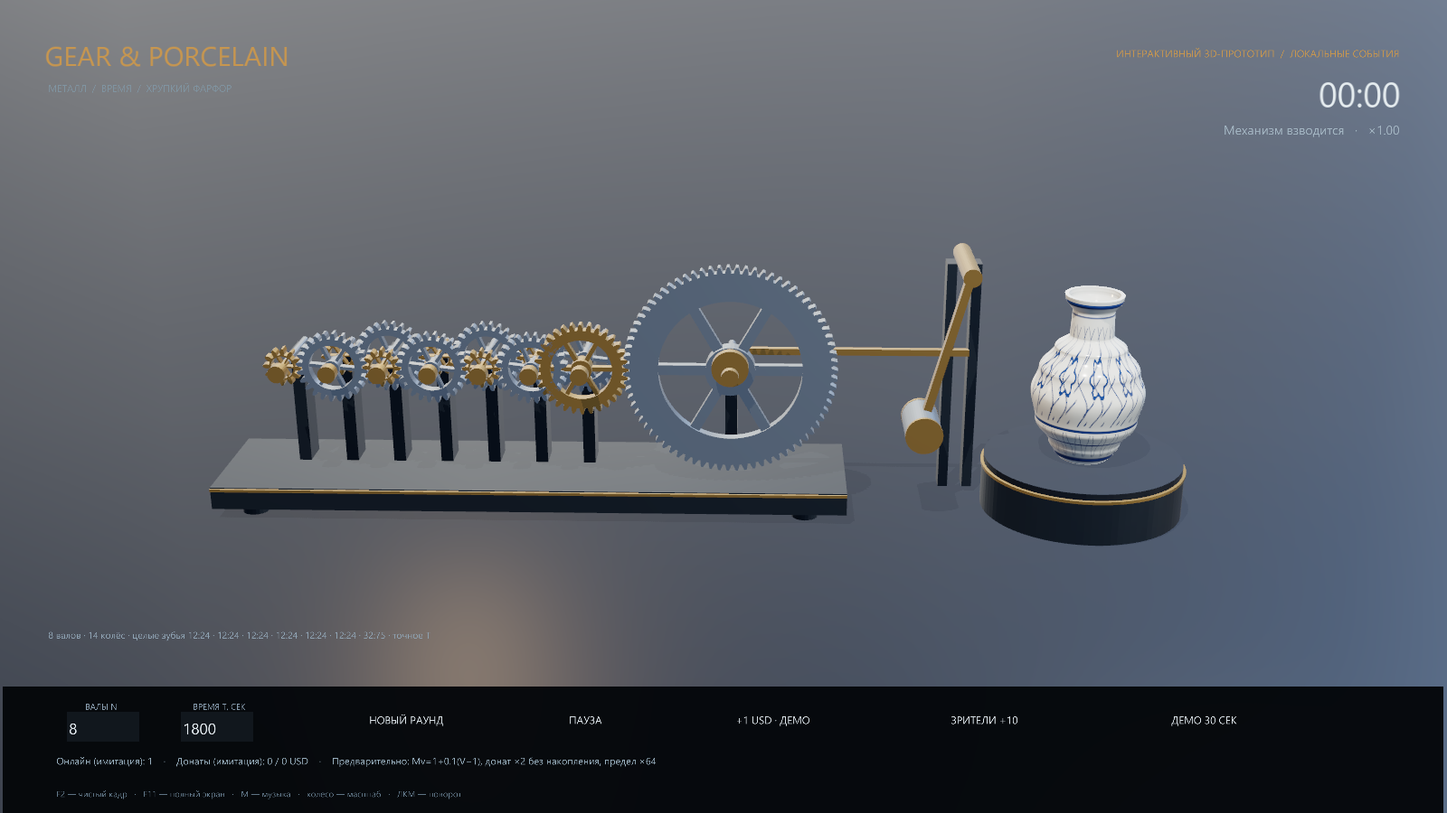
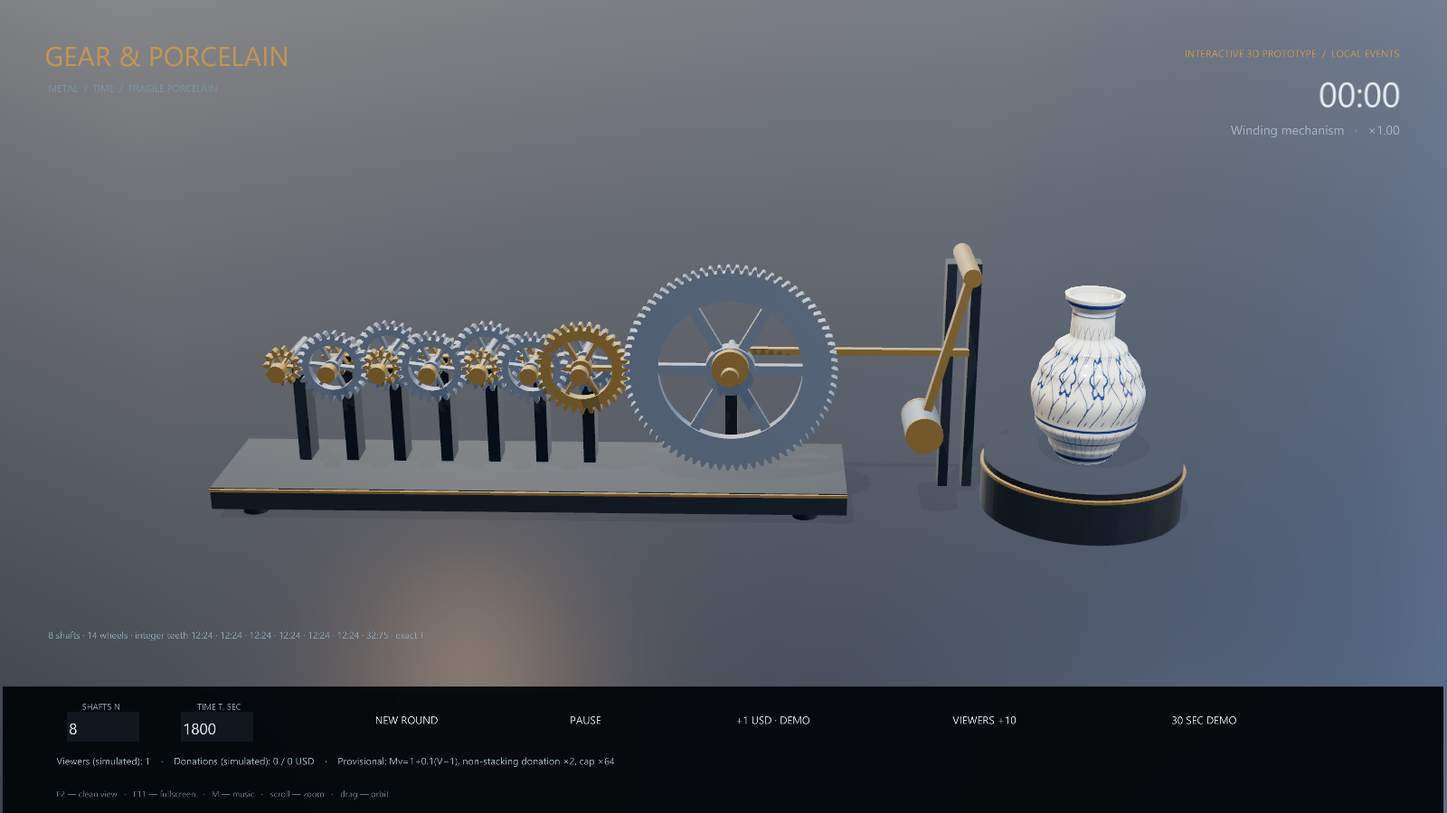
ui: translate all application text to English

diff --git a/ytgears/scene.py b/ytgears/scene.py
@@ -154,7 +154,7 @@ class GearPorcelainApp(ShowBase):
         gold = (.78, .59, .31, 1)
         self.header = DirectLabel(parent=self.ui, text="GEAR & PORCELAIN", scale=.067,
                                   text_fg=gold, frameColor=(0, 0, 0, 0), text_align=TextNode.A_left, pos=(-1.67, 0, .84))
-        DirectLabel(parent=self.ui, text="МЕТАЛЛ  /  ВРЕМЯ  /  ХРУПКИЙ ФАРФОР", scale=.024,
+        DirectLabel(parent=self.ui, text="METAL  /  TIME  /  FRAGILE PORCELAIN", scale=.024,
                     text_fg=(.50, .58, .63, 1), frameColor=(0, 0, 0, 0), text_align=TextNode.A_left, pos=(-1.66, 0, .775))
         self.mode_label = DirectLabel(parent=self.ui, text="", scale=.025, text_align=TextNode.A_right,
                                       text_fg=gold, frameColor=(0, 0, 0, 0), pos=(1.66, 0, .86))
@@ -167,8 +167,8 @@ class GearPorcelainApp(ShowBase):
         self.progress_bar = DirectWaitBar(parent=self.ui, range=100, value=0, frameSize=(-1.66, 1.66, -.007, .007),
                                           frameColor=(.09, .13, .16, 1), barColor=gold, pos=(0, 0, -.64), relief=None)
         self.bottom = DirectFrame(parent=self.ui, frameColor=(.015, .027, .040, .97), frameSize=(-1.77, 1.77, -.35, 0), pos=(0, 0, -.69))
-        DirectLabel(parent=self.bottom, text="ВАЛЫ N", scale=.021, text_fg=(.55, .63, .7, 1), frameColor=(0, 0, 0, 0), pos=(-1.53, 0, -.055))
-        DirectLabel(parent=self.bottom, text="ВРЕМЯ T, СЕК", scale=.021, text_fg=(.55, .63, .7, 1), frameColor=(0, 0, 0, 0), pos=(-1.24, 0, -.055))
+        DirectLabel(parent=self.bottom, text="SHAFTS N", scale=.021, text_fg=(.55, .63, .7, 1), frameColor=(0, 0, 0, 0), pos=(-1.53, 0, -.055))
+        DirectLabel(parent=self.bottom, text="TIME T, SEC", scale=.021, text_fg=(.55, .63, .7, 1), frameColor=(0, 0, 0, 0), pos=(-1.24, 0, -.055))
         entry_style = dict(parent=self.bottom, scale=.038, width=4.5, numLines=1, frameColor=(.065, .09, .115, 1), text_fg=(.9, .93, .95, 1), entryFont=self.font)
         self.gears_entry = DirectEntry(**entry_style, initialText=str(5 if self.args.demo else self.args.gears), pos=(-1.61, 0, -.115))
         self.time_entry = DirectEntry(**entry_style, initialText=str(180 if self.args.demo else self.args.seconds), pos=(-1.33, 0, -.115))
@@ -176,17 +176,17 @@ class GearPorcelainApp(ShowBase):
             return DirectButton(parent=self.bottom, text=text, text_scale=.026, text_fg=(.86, .89, .91, 1),
                                 frameColor=(.11, .15, .18, 1), frameSize=(-width / 2, width / 2, -.043, .043),
                                 relief=None, pos=(x, 0, -.09), command=command, pressEffect=True)
-        button("НОВЫЙ РАУНД", -.78, self._apply_settings, .43)
-        self.pause_button = button("ПАУЗА", -.34, self._toggle_pause)
-        button("+1 USD · ДЕМО", .12, self._donate, .48)
-        button("ЗРИТЕЛИ +10", .64, self._more_viewers, .46)
-        button("ДЕМО 30 СЕК", 1.18, lambda: self._start_round(True), .47)
+        button("NEW ROUND", -.78, self._apply_settings, .43)
+        self.pause_button = button("PAUSE", -.34, self._toggle_pause)
+        button("+1 USD · DEMO", .12, self._donate, .48)
+        button("VIEWERS +10", .64, self._more_viewers, .46)
+        button("30 SEC DEMO", 1.18, lambda: self._start_round(True), .47)
         self.info_label = DirectLabel(parent=self.bottom, text="", scale=.024, text_align=TextNode.A_left,
                                       text_fg=(.60, .69, .75, 1), frameColor=(0, 0, 0, 0), pos=(-1.64, 0, -.19))
-        DirectLabel(parent=self.bottom, text="F2 — чистый кадр   ·   F11 — полный экран   ·   M — музыка   ·   колесо — масштаб   ·   ЛКМ — поворот",
+        DirectLabel(parent=self.bottom, text="F2 — clean view   ·   F11 — fullscreen   ·   M — music   ·   scroll — zoom   ·   drag — orbit",
                     scale=.021, text_align=TextNode.A_left, text_fg=(.40, .49, .56, 1), frameColor=(0, 0, 0, 0), pos=(-1.64, 0, -.27))
         self.result_panel = DirectFrame(parent=self.ui, frameColor=(.018, .032, .047, .97), frameSize=(-.83, .83, -.43, .43), pos=(0, 0, .13))
-        DirectLabel(parent=self.result_panel, text="ФАРФОР УСТУПИЛ ВРЕМЕНИ", scale=.046, text_fg=gold,
+        DirectLabel(parent=self.result_panel, text="PORCELAIN YIELDS TO TIME", scale=.046, text_fg=gold,
                     frameColor=(0, 0, 0, 0), pos=(0, 0, .29))
         self.result_text = DirectLabel(parent=self.result_panel, text="", scale=.035, text_fg=(.79, .85, .90, 1),
                                        frameColor=(0, 0, 0, 0), text_align=TextNode.A_left, pos=(-.65, 0, .16))
@@ -248,12 +248,12 @@ class GearPorcelainApp(ShowBase):
         intact = vase_mesh(); intact.reparent_to(self.vase); intact.set_material(self.porcelain, 1); intact.set_texture(self.texture, 1)
         self.vase.set_pos(self.vase_pos); self.vase.show()
         self.paused, self.presentation_seconds = False, 0.0
-        self.pause_button["text"] = "ПАУЗА"
+        self.pause_button["text"] = "PAUSE"
         self.result_panel.hide(); self.error_label["text"] = ""
         self.gears_entry.enterText(str(parameters.gear_count)); self.time_entry.enterText(f"{parameters.target_seconds:g}")
-        self.mode_label["text"] = "ИНТЕРАКТИВНЫЙ 3D-ПРОТОТИП  /  ЛОКАЛЬНЫЕ СОБЫТИЯ"
+        self.mode_label["text"] = "INTERACTIVE 3D PROTOTYPE  /  LOCAL EVENTS"
         pairs = " · ".join(f"{a}:{b}" for a, b in transmission.stage_teeth)
-        self.transmission_label["text"] = f"{parameters.gear_count} валов · {2 * (parameters.gear_count - 1)} колёс · целые зубья {pairs} · точное T"
+        self.transmission_label["text"] = f"{parameters.gear_count} shafts · {2 * (parameters.gear_count - 1)} wheels · integer teeth {pairs} · exact T"
         if "mechanism" in self.sounds: self.sounds["mechanism"].play()
         if "music" in self.sounds: self.sounds["music"].set_volume(.14)
         self._last_time = time.perf_counter()
@@ -269,7 +269,7 @@ class GearPorcelainApp(ShowBase):
     def _toggle_pause(self):
         if self.round.phase != RoundPhase.RUNNING: return
         self.paused = not self.paused
-        self.pause_button["text"] = "ПРОДОЛЖИТЬ" if self.paused else "ПАУЗА"
+        self.pause_button["text"] = "RESUME" if self.paused else "PAUSE"
         self.pause_button["text_scale"] = .021 if self.paused else .026
         if "mechanism" in self.sounds:
             self.sounds["mechanism"].set_volume(0 if self.paused else .11)
@@ -333,12 +333,12 @@ class GearPorcelainApp(ShowBase):
         self.round.complete_destruction()
         r = self.round.result
         minutes, seconds = divmod(r.actual_seconds_to_impact, 60)
-        self.result_text["text"] = (f"До контакта: {int(minutes):02d}:{seconds:05.2f}\n"
-                                    f"Донатов: {r.donation_count}     Сумма: {r.donation_total_usd} USD\n"
-                                    f"Пик имитируемого онлайна: {r.observed_peak_concurrent_viewers}\n"
-                                    f"Уникальные зрители: недоступно\n"
-                                    f"Уникальные ускорившие: недоступно\n"
-                                    f"Максимальная скорость: ×{r.max_applied_multiplier:.2f}")
+        self.result_text["text"] = (f"Time to impact: {int(minutes):02d}:{seconds:05.2f}\n"
+                                    f"Donations: {r.donation_count}     Total: {r.donation_total_usd} USD\n"
+                                    f"Peak simulated viewers: {r.observed_peak_concurrent_viewers}\n"
+                                    f"Unique viewers: unavailable\n"
+                                    f"Unique accelerating viewers: unavailable\n"
+                                    f"Maximum speed: ×{r.max_applied_multiplier:.2f}")
         self.result_panel.show()
         if "music" in self.sounds: self.sounds["music"].set_volume(.14 if self.music_enabled else 0)
 
@@ -377,11 +377,11 @@ class GearPorcelainApp(ShowBase):
                 self._show_results(); self._camera_position()
         elapsed = self.round.elapsed_seconds
         self.clock_label["text"] = f"{int(elapsed // 60):02d}:{int(elapsed % 60):02d}"
-        state = "ПАУЗА" if self.paused else {RoundPhase.RUNNING: "Механизм взводится", RoundPhase.DESTRUCTION: "УДАР · ФАРФОР", RoundPhase.RESULTS: "ИТОГИ РАУНДА"}.get(self.round.phase, "Контакт")
+        state = "PAUSE" if self.paused else {RoundPhase.RUNNING: "Winding mechanism", RoundPhase.DESTRUCTION: "IMPACT · PORCELAIN", RoundPhase.RESULTS: "ROUND RESULTS"}.get(self.round.phase, "Impact")
         self.status_label["text"] = f"{state}   ·   ×{self.round.applied_multiplier:.2f}"
         self.progress_bar["value"] = self.round.progress * 100
-        self.info_label["text"] = (f"Онлайн (имитация): {self.viewers}    ·    Донаты (имитация): {self.round.donation_count} / {self.round.donation_total_usd} USD"
-                                   f"    ·    Предварительно: Mv=1+0.1(V−1), донат ×2 без накопления, предел ×64")
+        self.info_label["text"] = (f"Viewers (simulated): {self.viewers}    ·    Donations (simulated): {self.round.donation_count} / {self.round.donation_total_usd} USD"
+                                   f"    ·    Provisional: Mv=1+0.1(V−1), non-stacking donation ×2, cap ×64")
         self._capture_frames += 1
         if self.args.capture and self._capture_frames >= (90 if self.args.capture_impact else 8):
             path = Path(self.args.capture).resolve(); path.parent.mkdir(parents=True, exist_ok=True)

diff --git a/ytgears/core.py b/ytgears/core.py
@@ -12,29 +12,29 @@ MONEY_MAX = Decimal("79228162514264337593543950335")
 
 def finite(value: float, name: str, minimum=0, maximum=1e12) -> float:
     if isinstance(value, bool) or not isinstance(value, (int, float, Decimal)):
-        raise ValueError(f"{name}: требуется число")
+        raise ValueError(f"{name}: a number is required")
     value = float(value)
     if not math.isfinite(value) or not minimum <= value <= maximum:
-        raise ValueError(f"{name}: допустимо {minimum}..{maximum}")
+        raise ValueError(f"{name}: allowed range {minimum}..{maximum}")
     return value
 
 
 def integer(value: int, name: str, minimum=0, maximum=2**31 - 1) -> int:
     if type(value) is not int or not minimum <= value <= maximum:
-        raise ValueError(f"{name}: требуется целое {minimum}..{maximum}")
+        raise ValueError(f"{name}: an integer is required in {minimum}..{maximum}")
     return value
 
 
 def money(value) -> Decimal:
     # Reject binary float money: JSON is parsed directly into Decimal.
     if isinstance(value, (float, bool)):
-        raise ValueError("Сумма USD: используйте Decimal, строку или целое")
+        raise ValueError("USD amount: use Decimal, a string or an integer")
     try:
         amount = Decimal(value)
     except (ValueError, TypeError, ArithmeticError) as exc:
-        raise ValueError("Некорректная сумма USD") from exc
+        raise ValueError("Invalid USD amount") from exc
     if not amount.is_finite() or amount <= 0 or amount > MONEY_MAX or amount.as_tuple().exponent < -28:
-        raise ValueError("Сумма USD вне поддерживаемого диапазона Decimal")
+        raise ValueError("USD amount is outside the supported Decimal range")
     return amount
 
 
@@ -43,7 +43,7 @@ def add_money(a: Decimal, b: Decimal) -> Decimal:
         ctx.prec = 80
         result = a + b
     if result > MONEY_MAX:
-        raise OverflowError("Общая сумма USD превышает поддерживаемый диапазон")
+        raise OverflowError("Total USD exceeds the supported range")
     return result
 
 
@@ -56,7 +56,7 @@ class RoundParameters:
         integer(self.gear_count, "N", 2, 4096)
         value = finite(self.target_seconds, "T", 12)
         if value <= 12:
-            raise ValueError("T должно быть больше 12 секунд")
+            raise ValueError("T must be greater than 12 seconds")
         object.__setattr__(self, "target_seconds", value)
 
 
@@ -120,16 +120,16 @@ class Transmission:
         else:
             pairs = tuple(tuple(pair) for pair in self.stage_teeth)
             if len(pairs) != n - 1:
-                raise ValueError("Число зубчатых пар должно равняться N−1")
+                raise ValueError("The number of gear pairs must equal N−1")
             periods = [12.0]
             for driver, driven in pairs:
                 integer(driver, "driver_teeth", 12, 120)
                 integer(driven, "driven_teeth", 12, 120)
                 if driven <= driver:
-                    raise ValueError("Каждая ступень должна замедлять")
+                    raise ValueError("Every stage must reduce speed")
                 periods.append(periods[-1] * driven / driver)
             if not math.isclose(periods[-1], target, rel_tol=1e-12):
-                raise ValueError("Зубчатая передача несовместима с T")
+                raise ValueError("The gear train is incompatible with T")
             object.__setattr__(self, "stage_teeth", pairs)
         periods[0], periods[-1] = 12.0, target
         object.__setattr__(self, "periods_seconds", tuple(periods))
@@ -164,7 +164,7 @@ def physical_transmission(parameters: RoundParameters) -> Transmission:
     rather than drawing meshing teeth with incompatible speeds.
     """
     if parameters.gear_count > 12:
-        raise ValueError("В 3D поддерживается от 2 до 12 расчётных валов")
+        raise ValueError("The 3D scene supports 2 to 12 shafts")
     total = Fraction(str(parameters.target_seconds)) / 12
     stages = parameters.gear_count - 1
     ideal = float(total) ** (1 / stages)
@@ -179,7 +179,7 @@ def physical_transmission(parameters: RoundParameters) -> Transmission:
         if final:
             repeated = pair(ratio)
             return Transmission(parameters, (repeated,) * (stages - 1) + (final,))
-    raise ValueError("Для N/T не найдена компактная передача 12..120 зубьев. Измените N или T; пример: N=8, T=1800")
+    raise ValueError("No compact 12–120-tooth gear train found for N/T. Change N or T; example: N=8, T=1800")
 
 
 class RoundPhase(StrEnum):
@@ -211,9 +211,9 @@ class Donation:
     def __post_init__(self):
         for name in ("round_id", "provider", "event_id", "currency"):
             if not isinstance(getattr(self, name), str) or not getattr(self, name).strip():
-                raise ValueError(f"{name}: требуется непустая строка")
+                raise ValueError(f"{name}: a non-empty string is required")
         if type(self.confirmed) is not bool:
-            raise ValueError("confirmed: требуется true/false")
+            raise ValueError("confirmed: true/false is required")
         object.__setattr__(self, "amount", money(self.amount))
         object.__setattr__(self, "currency", self.currency.upper())
 
@@ -233,7 +233,7 @@ class RoundResult:
     viewer_data_gap_observed: bool
     unique_viewers: None = None
     unique_accelerating_viewers: None = None
-    viewer_metric_status: str = "Недоступно: одновременный онлайн не определяет уникальных зрителей"
+    viewer_metric_status: str = "Unavailable: concurrent viewer counts do not identify unique viewers"
 
     @property
     def saved_seconds(self):
@@ -243,7 +243,7 @@ class RoundResult:
 class MechanismRound:
     def __init__(self, round_id: str, parameters=None, policy=None, transmission=None):
         if not isinstance(round_id, str) or not round_id.strip():
-            raise ValueError("Требуется round_id")
+            raise ValueError("round_id is required")
         self.round_id = round_id
         self.transmission = transmission or Transmission(parameters or RoundParameters())
         self.policy = policy or SpeedPolicy()
@@ -295,7 +295,7 @@ class MechanismRound:
         return True
 
     def receive_donation(self, donation: Donation):
-        if not isinstance(donation, Donation): raise ValueError("Требуется Donation")
+        if not isinstance(donation, Donation): raise ValueError("A Donation object is required")
         if donation.round_id != self.round_id: return DonationStatus.WRONG_ROUND
         if self.phase != RoundPhase.RUNNING: return DonationStatus.CLOSED
         if not donation.confirmed: return DonationStatus.UNCONFIRMED

diff --git a/ytgears/scenario.py b/ytgears/scenario.py
@@ -16,20 +16,20 @@ POLICY_FIELDS = {
 
 
 def _fields(data, allowed, label):
-    if not isinstance(data, dict): raise ValueError(f"{label}: требуется JSON-объект")
+    if not isinstance(data, dict): raise ValueError(f"{label}: a JSON object is required")
     unknown = data.keys() - set(allowed)
-    if unknown: raise ValueError(f"{label}: неизвестные поля {', '.join(sorted(unknown))}")
+    if unknown: raise ValueError(f"{label}: unknown fields {', '.join(sorted(unknown))}")
 
 
 def load_scenario(path):
-    def invalid(value): raise ValueError(f"Недопустимое JSON-число: {value}")
+    def invalid(value): raise ValueError(f"Invalid JSON number: {value}")
     data = json.loads(Path(path).read_text(encoding="utf-8-sig"), parse_float=Decimal, parse_constant=invalid)
-    _fields(data, ("roundId", "gearCount", "targetSeconds", "stepSeconds", "policy", "events"), "Сценарий")
+    _fields(data, ("roundId", "gearCount", "targetSeconds", "stepSeconds", "policy", "events"), "Scenario")
     return data
 
 
 def run_scenario(data):
-    _fields(data, ("roundId", "gearCount", "targetSeconds", "stepSeconds", "policy", "events"), "Сценарий")
+    _fields(data, ("roundId", "gearCount", "targetSeconds", "stepSeconds", "policy", "events"), "Scenario")
     policy = data.get("policy", {})
     _fields(policy, POLICY_FIELDS, "policy")
     round_ = MechanismRound(data.get("roundId", "simulation"),
@@ -37,12 +37,12 @@ def run_scenario(data):
                             SpeedPolicy(**{POLICY_FIELDS[k]: v for k, v in policy.items()}))
     step = finite(data.get("stepSeconds", 1), "stepSeconds", .01)
     if round_.transmission.parameters.target_seconds / step > 10_000_000:
-        raise ValueError("Слишком много шагов; увеличьте stepSeconds")
+        raise ValueError("Too many steps; increase stepSeconds")
     events = data.get("events", [])
-    if not isinstance(events, list): raise ValueError("events: требуется массив")
+    if not isinstance(events, list): raise ValueError("events: an array is required")
     validated = []
     for event in events:
-        _fields(event, ("atSeconds", "type", "viewers", "roundId", "provider", "id", "amountUsd", "currency", "confirmed"), "Событие")
+        _fields(event, ("atSeconds", "type", "viewers", "roundId", "provider", "id", "amountUsd", "currency", "confirmed"), "Event")
         at = finite(event.get("atSeconds", 0), "atSeconds")
         if event.get("type") == "donation":
             payload = Donation(event.get("roundId", round_.round_id), event.get("provider", "simulator"),
@@ -51,7 +51,7 @@ def run_scenario(data):
             from .core import integer
             payload = event.get("viewers")
             if payload is not None: integer(payload, "viewers")
-        else: raise ValueError("type: ожидается viewers или donation")
+        else: raise ValueError("type: expected viewers or donation")
         validated.append((at, event["type"], payload))
     log = []
     for at, kind, payload in sorted(validated, key=lambda e: e[0]):
@@ -71,7 +71,7 @@ def run_scenario(data):
     candidate = round_.transmission.approximate_teeth()
     tooth = asdict(candidate)
     tooth["wheel_count"] = candidate.wheel_count
-    return {"mode": "SIMULATION — предварительные политики, без YouTube и реальных платежей",
+    return {"mode": "SIMULATION — provisional policies, no YouTube or real payments",
             "configuration": data, "result": result, "tooth_candidate": tooth,
             "impact_count": round_.impact_count, "final_phase": round_.phase, "event_log": log}
 

diff --git a/run.py b/run.py
@@ -8,11 +8,11 @@ ROOT = Path(__file__).resolve().parent
 
 def main():
     parser = argparse.ArgumentParser(description="YTGears / Gear & Porcelain — Python 3D")
-    parser.add_argument("--gears", type=int, default=8, help="число расчётных валов")
-    parser.add_argument("--seconds", type=float, default=1800, help="базовое время до контакта")
-    parser.add_argument("--demo", action="store_true", help="короткий раунд: N=5, T=180, 51 имитируемый зритель")
-    parser.add_argument("--simulate", metavar="JSON", help="проиграть автономный сценарий без графики")
-    parser.add_argument("--json", action="store_true", help="JSON-отчёт для --simulate")
+    parser.add_argument("--gears", type=int, default=8, help="number of transmission shafts")
+    parser.add_argument("--seconds", type=float, default=1800, help="baseline time to impact, in seconds")
+    parser.add_argument("--demo", action="store_true", help="short round: N=5, T=180, 51 simulated viewers")
+    parser.add_argument("--simulate", metavar="JSON", help="play an offline scenario without graphics")
+    parser.add_argument("--json", action="store_true", help="JSON report for --simulate")
     parser.add_argument("--offscreen", action="store_true", help=argparse.SUPPRESS)
     parser.add_argument("--capture", metavar="PNG", help=argparse.SUPPRESS)
     parser.add_argument("--capture-impact", action="store_true", help=argparse.SUPPRESS)
@@ -27,19 +27,19 @@ def main():
                 result = report["result"]
                 print(report["mode"])
                 for line in report["event_log"]: print(line)
-                print(f"Контакт: {result['actual_seconds_to_impact']:.6f} с; ударов: {report['impact_count']}; "
-                      f"донатов: {result['donation_count']}; USD: {result['donation_total_usd']}")
-                print("Уникальные зрители: недоступно; пик онлайна:", result["observed_peak_concurrent_viewers"])
+                print(f"Impact: {result['actual_seconds_to_impact']:.6f} s; impacts: {report['impact_count']}; "
+                      f"donations: {result['donation_count']}; USD: {result['donation_total_usd']}")
+                print("Unique viewers: unavailable; peak concurrent viewers:", result["observed_peak_concurrent_viewers"])
             return 0
         from ytgears.scene import GearPorcelainApp
         app = GearPorcelainApp(args)
         app.run()
         return 0
     except ImportError as exc:
-        print(f"Не установлен компонент: {exc}. Запустите start.bat или pip install -r requirements.txt", file=sys.stderr)
+        print(f"Missing dependency: {exc}. Run start.bat or pip install -r requirements.txt", file=sys.stderr)
         return 2
     except (ValueError, OSError, ArithmeticError) as exc:
-        print(f"Ошибка: {exc}", file=sys.stderr)
+        print(f"Error: {exc}", file=sys.stderr)
         return 2
 
 

diff --git a/README.md b/README.md
@@ -1,5 +1,7 @@
 # YTGears / Gear & Porcelain — Python 3D
 
+Язык интерфейса приложения — английский.
+
 Интерактивная трёхмерная сцена на **Python + Panda3D**: металлическая составная передача, фарфоровая ваза с синим орнаментом, взвод и удар молоточка, физические осколки, звук, музыка и итоговый экран. C# и .NET больше не нужны.
 
 **Это работающий 3D-прототип.** Модели и орнамент создаются процедурно; разрушение сейчас рассчитывает Bullet в реальном времени. Художественная сцена с рассчитанным в Blender разрушением, реальные YouTube/платёжные подключения и качество для итогового эфира ещё предстоят.
@@ -33,9 +35,9 @@ cd C:\Work\YTGears
 
 ## Управление
 
-- Поля **N** и **T** и кнопка «Новый раунд»: создать механизм с выбранными параметрами. По умолчанию N=8 расчётных валов, T=1800 секунд, один имитируемый зритель.
-- «+1 USD · демо» и «Зрители +10»: автономные входы без реальных денег/подключений.
-- «Демо 30 сек»: N=5, T=180 с, 51 имитируемый зритель; с учётом сглаживания удар примерно через 30.83 с.
+- Поля **N** и **T** и кнопка «NEW ROUND»: создать механизм с выбранными параметрами. По умолчанию N=8 расчётных валов, T=1800 секунд, один имитируемый зритель.
+- «+1 USD · DEMO» и «VIEWERS +10»: автономные входы без реальных денег/подключений.
+- «30 SEC DEMO»: N=5, T=180 с, 51 имитируемый зритель; с учётом сглаживания удар примерно через 30.83 с.
 - ЛКМ на сцене — поворот камеры; колесо — приближение.
 - `Пробел` — пауза; `M` — музыка; `F2` — скрыть интерфейс для OBS; `F11` — полный экран; `F12` — снимок в `output`; `Esc` — выход.
 

diff --git a/docs/Runbook.md b/docs/Runbook.md
@@ -29,10 +29,10 @@ cd C:\Work\YTGears
 
 | Действие | Управление |
 | --- | --- |
-| Новый N/T | Изменить поля, нажать «Новый раунд»; несовместимые параметры отклоняются без уничтожения текущего раунда |
-| Имитация подтверждённого USD | «+1 USD · демо», каждый клик имеет отдельный ID |
-| Имитация онлайна | «Зрители +10» |
-| Короткая демонстрация | «Демо 30 сек», новый раунд 5/180/51 |
+| Новый N/T | Изменить поля, нажать «NEW ROUND»; несовместимые параметры отклоняются без уничтожения текущего раунда |
+| Имитация подтверждённого USD | «+1 USD · DEMO», каждый клик имеет отдельный ID |
+| Имитация онлайна | «VIEWERS +10» |
+| Короткая демонстрация | «30 SEC DEMO», новый раунд 5/180/51 |
 | Пауза | Кнопка или пробел |
 | Камера | ЛКМ на сцене и колесо |
 | Музыка | M |
